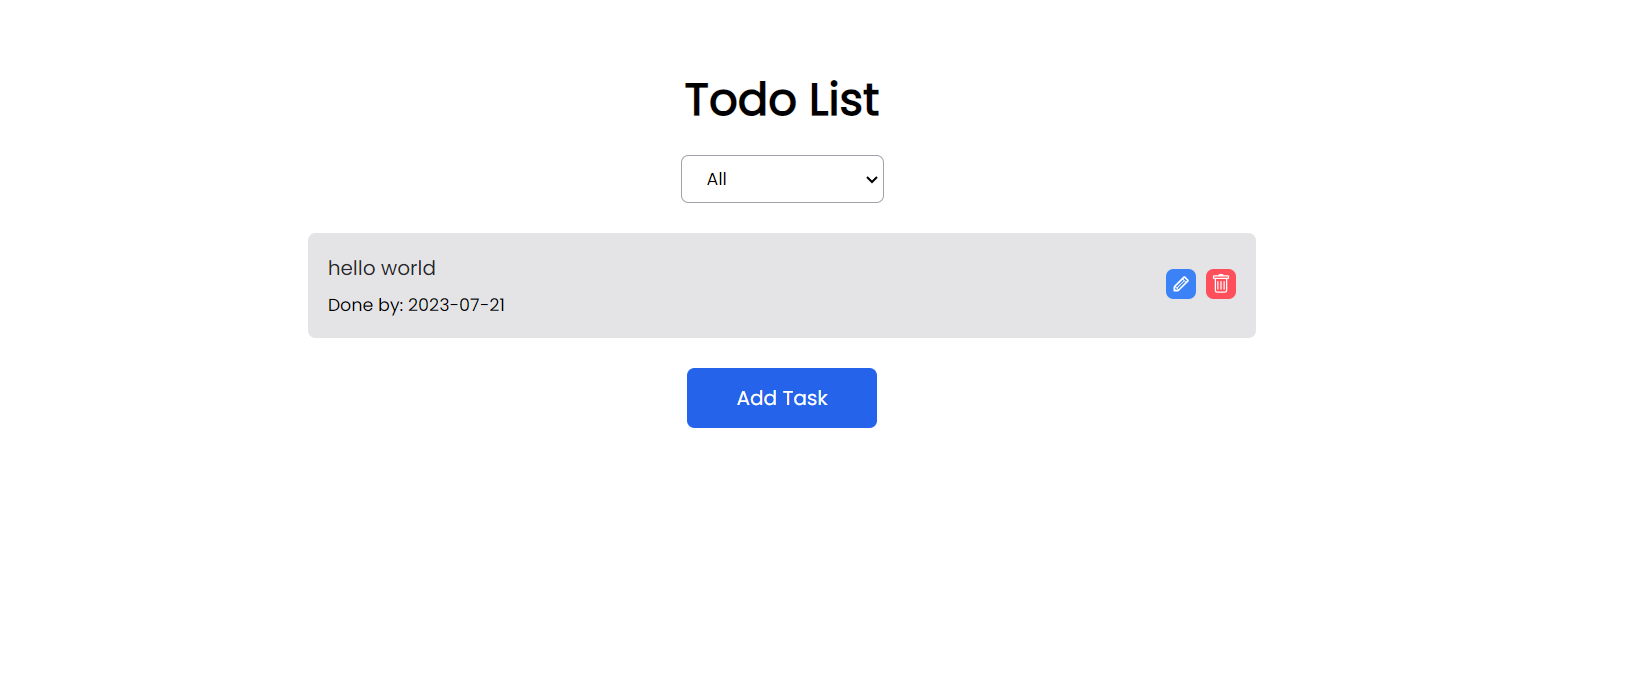
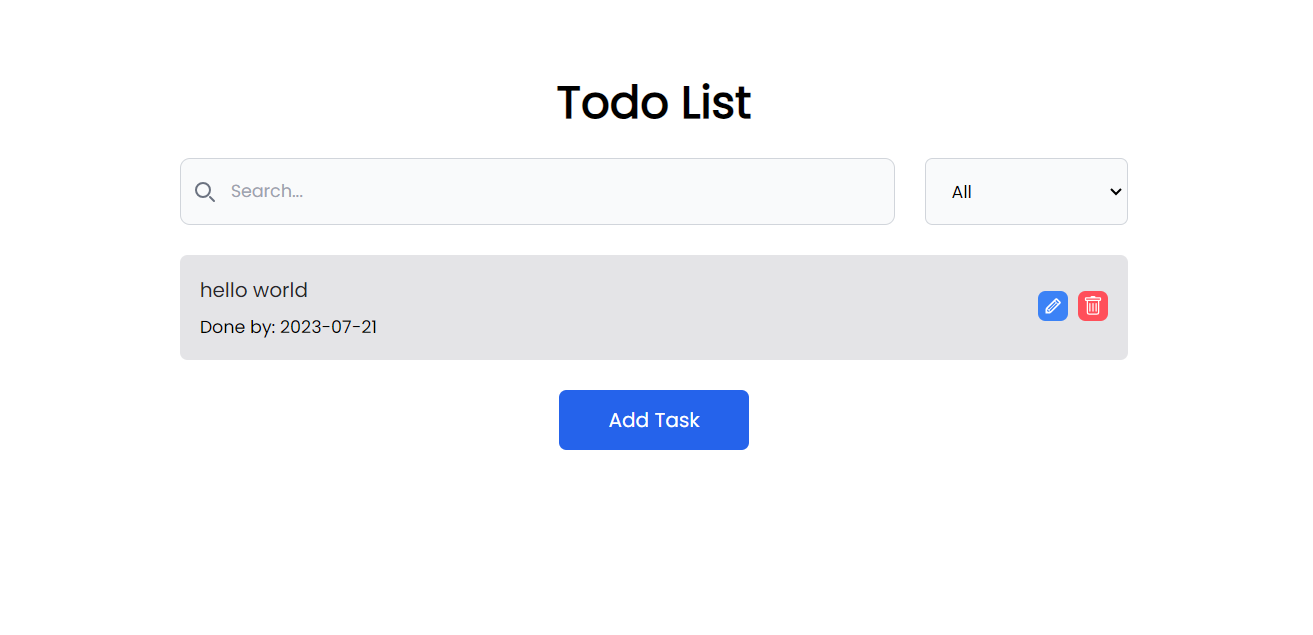
search added

diff --git a/src/components/ToDoList.jsx b/src/components/ToDoList.jsx
@@ -24,11 +24,10 @@ function TodoList() {
   const todoList = useSelector((state) => state.todo.todoList);
   const sortCriteria = useSelector((state) => state.todo.sortCriteria);
   const [showModal, setShowModal] = useState(false);
-  const [currentTodo, setCurrentTodo] = useState(null);
-  const [newTask, setNewTask] = useState("");
 
   const [mode, setMode] = useState("add");
   const [id, setId] = useState(null);
+  const [search, setSearch] = useState("");
 
   const {
     register,
@@ -48,6 +47,7 @@ function TodoList() {
       handleUpdateToDoList(id, data.todo, data.date);
     }
     setShowModal(false);
+    setMode("add");
     setValue("todo", "");
     reset();
   };
@@ -57,6 +57,7 @@ function TodoList() {
       localStorage.setItem("todoList", JSON.stringify(todoList));
     }
   }, [todoList]);
+
   useEffect(() => {
     const localTodoList = JSON.parse(localStorage.getItem("todoList"));
     if (localTodoList) {
@@ -64,13 +65,11 @@ function TodoList() {
     }
   }, []);
 
-
   const handleAddTodo = (task, date) => {
     if (task.trim().length === 0) {
       alert("Please enter a task");
     } else {
       dispatch(addTodo({ task: task, id: Date.now(), date: date }));
-      setNewTask("");
       setShowModal(true);
     }
   };
@@ -106,31 +105,48 @@ function TodoList() {
     return currentDate;
   }
 
-  const sortToDoList = todoList.filter((todo) => {
-    if (sortCriteria === "All") return true;
-    if (sortCriteria === "Completed" && todo.completed) return true;
-    if (
-      sortCriteria === "Not Completed" &&
-      !todo.completed &&
-      new Date(getCurrentDate()) < new Date(todo.date)
-    )
-      return true;
-    if (
-      sortCriteria === "overdue" &&
-      new Date(getCurrentDate()) > new Date(todo.date)
-    )
-      return true;
-    return false;
-  });
+  const sortToDoList = todoList
+    .filter((todo) => {
+      if (sortCriteria === "All") return true;
+      if (sortCriteria === "Completed" && todo.completed) return true;
+      if (
+        sortCriteria === "Not Completed" &&
+        !todo.completed &&
+        new Date(getCurrentDate()) < new Date(todo.date)
+      )
+        return true;
+      if (
+        sortCriteria === "overdue" &&
+        new Date(getCurrentDate()) > new Date(todo.date)
+      )
+        return true;
+      return false;
+    })
+    .filter((todo) => {
+      if (search !== "") {
+        return todo.task.toLowerCase().includes(search.toLowerCase());
+      } else return true;
+    });
 
   const handleToggleCompleted = (id) => {
     dispatch(toggleCompleted({ id }));
   };
+
+  console.log("serch: ", search);
+  console.log("sort todo list; ", sortToDoList);
+
+  const handleSearch = (value) => {
+    const timer = setTimeout(() => {
+      setSearch(value);
+    }, 500);
+    return () => clearTimeout(timer);
+  };
+
   return (
     <div>
       <div className="text-center text-4xl font-bold">Todo List</div>
       {showModal && (
-        <div className="fixed w-full left-0 top-0 h-full bg-transparentBlack flex items-center justify-center">
+        <div className="fixed w-full left-0 top-0 h-full bg-transparentBlack z-10 flex items-center justify-center">
           <div className="bg-white p-6 rounded-md w-full max-w-xl">
             <div className="flex justify-end items-center">
               <span
@@ -154,10 +170,8 @@ function TodoList() {
                   id="todo"
                   name="todo"
                   className="border p-2 rounded-md mt-1 outline-none w-full"
-                  value={newTask}
-                  onChange={(e) => setNewTask(e.target.value)}
                   placeholder={
-                    currentTodo
+                    mode === "edit"
                       ? "Update your task here"
                       : "Enter your task here"
                   }
@@ -184,7 +198,7 @@ function TodoList() {
                   type="submit"
                   className="bg-blue-600 hover:bg-blue-500 text-white duration-150 px-3 py-1.5 rounded-md"
                 >
-                  Submit
+                  {mode === "add" ? "Submit" : "Update"}
                 </button>
               </div>
             </form>
@@ -200,10 +214,46 @@ function TodoList() {
           </div>
         ) : (
           <div className="container mx-auto mt-6">
-            <div className="flex justify-center mb-6 ">
+            <div className="flex justify-center gap-6 mb-6 mx-auto w-full md:w-[75%]">
+              <div className="w-full">
+                <label
+                  htmlFor="default-search"
+                  className="mb-2 text-sm font-medium text-gray-900 sr-only"
+                >
+                  Search
+                </label>
+                <div className="relative">
+                  <div className="absolute inset-y-0 left-0 flex items-center pl-3 pointer-events-none">
+                    <svg
+                      className="w-4 h-4 text-gray-500"
+                      aria-hidden="true"
+                      xmlns="http://www.w3.org/2000/svg"
+                      fill="none"
+                      viewBox="0 0 20 20"
+                    >
+                      <path
+                        stroke="currentColor"
+                        strokeLinecap="round"
+                        strokeLinejoin="round"
+                        strokeWidth="2"
+                        d="m19 19-4-4m0-7A7 7 0 1 1 1 8a7 7 0 0 1 14 0Z"
+                      />
+                    </svg>
+                  </div>
+                  <input
+                    type="search"
+                    id="default-search"
+                    className="block w-full p-4 pl-10 outline-none text-sm text-gray-900 border border-gray-300 rounded-lg bg-gray-50 "
+                    placeholder="Search..."
+                    required
+                    onChange={(e) => handleSearch(e.target.value)}
+                  />
+                </div>
+              </div>
+
               <select
                 onChange={(e) => handleSort(e.target.value)}
-                className=" outline-none text-sm border border-zinc-400 rounded-md px-4 py-2"
+                className=" outline-none text-sm border border-gray-300 bg-gray-50 rounded-md px-4 py-2"
               >
                 <option value="All" className="text-sm">
                   All
@@ -220,6 +270,7 @@ function TodoList() {
               </select>
             </div>
             <div>
+              {sortToDoList.length === 0 && <div className="flex justify-start items-center mb-4 text-zinc-600">There are no tasks matching your search input and filter....</div>}
               {sortToDoList.map((todo) => (
                 <div
                   key={todo.id}
